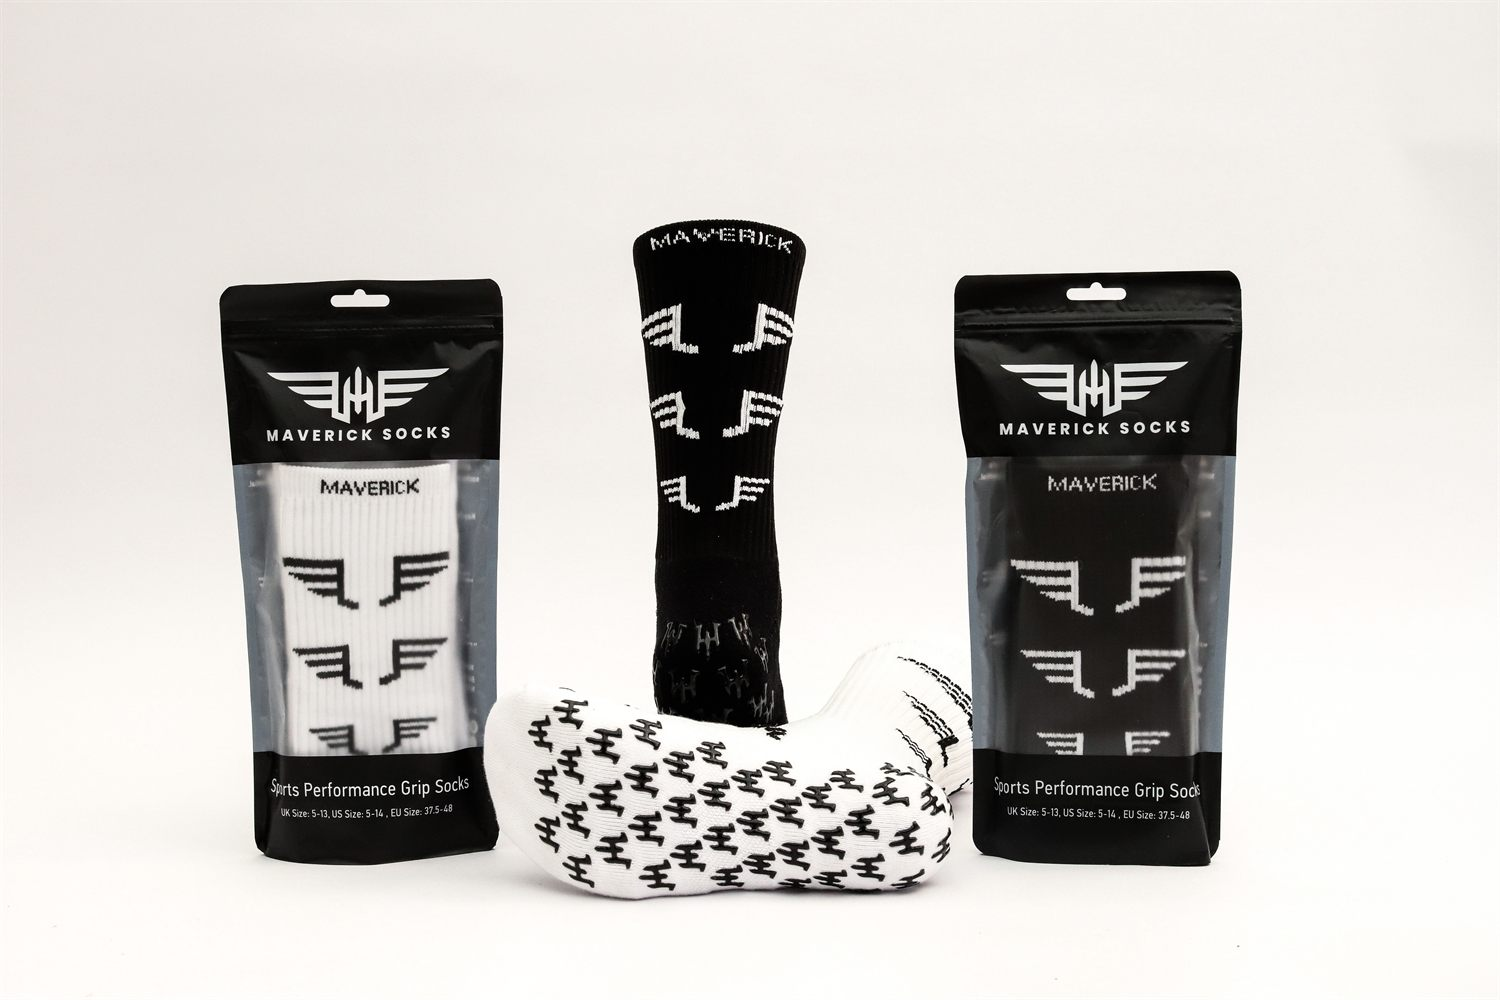
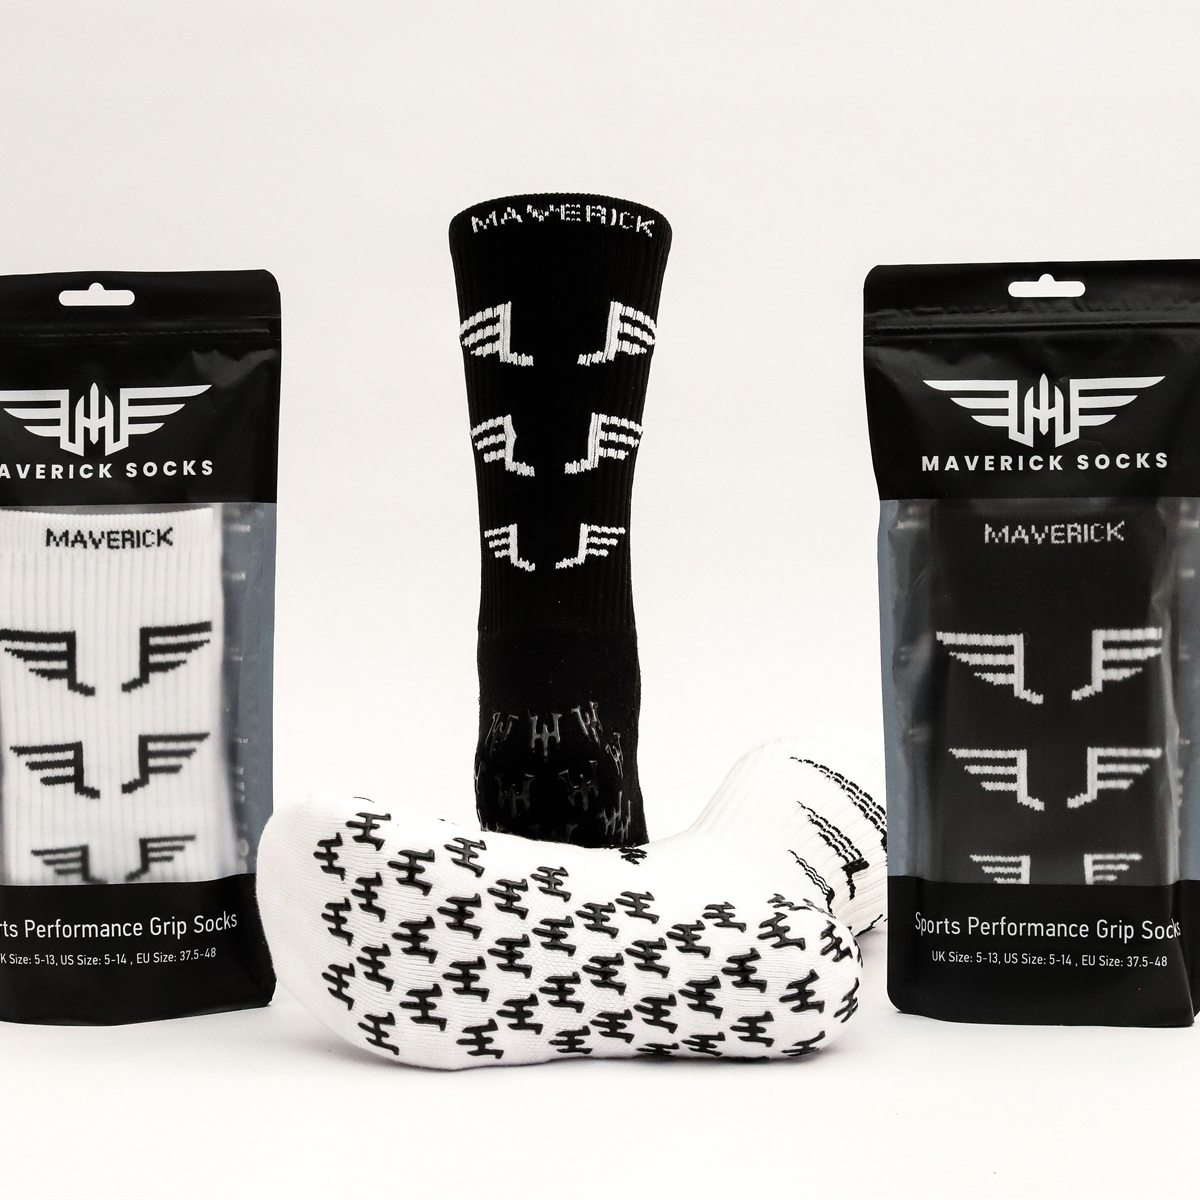
Catalogue: new product photos, square cards
- New white / black / 3-pack images (packaged sock + standing sock + grip
  sole), all cropped to 1200x1200 square so the three cards render at an
  identical size
- Card media aspect ratio 4:5 -> 1:1
- 3-pack copy: "Three pairs of your choosing so there's always a clean set
  in the kit bag. Save £3.98."

diff --git a/js/products.js b/js/products.js
@@ -8,7 +8,7 @@ window.MAVERICK_PRODUCTS = [
     name: "Maverick Grip Socks — White",
     price: 12.99,
     image: "assets/product-white.jpg",
-    alt: "White Maverick grip sock, side angle, showing the grip sole",
+    alt: "White Maverick grip socks with packaging and the grip sole",
     blurb: "The original. White with the black wing motif and a full-contact grip sole.",
     badge: "Bestseller"
   },
@@ -17,7 +17,7 @@ window.MAVERICK_PRODUCTS = [
     name: "Maverick Grip Socks — Black",
     price: 12.99,
     image: "assets/product-black.jpg",
-    alt: "Black Maverick grip sock, side angle, showing the grip sole",
+    alt: "Black Maverick grip socks with packaging and the grip sole",
     blurb: "Same grip, blacked out. Woven logo cuff and silicone grips inside and out.",
     badge: ""
   },
@@ -27,7 +27,7 @@ window.MAVERICK_PRODUCTS = [
     price: 34.99,
     image: "assets/product-3pack.jpg",
     alt: "Three pairs of Maverick grip socks with packaging",
-    blurb: "Three mixed pairs so there's always a clean set in the kit bag. Save £3.98.",
+    blurb: "Three pairs of your choosing so there's always a clean set in the kit bag. Save £3.98.",
     badge: "Best value"
   }
 ];
@@ -43,7 +43,7 @@ window.MAVERICK_PRODUCTS = [
     card.innerHTML =
       '<div class="product-media">' +
       (p.badge ? '<span class="product-badge">' + p.badge + "</span>" : "") +
-      '<img src="' + p.image + '" alt="' + p.alt + '" loading="lazy" width="600" height="750" />' +
+      '<img src="' + p.image + '" alt="' + p.alt + '" loading="lazy" width="600" height="600" />' +
       "</div>" +
       '<div class="product-body">' +
       "<h3>" + p.name + "</h3>" +

diff --git a/css/styles.css b/css/styles.css
@@ -160,7 +160,7 @@ body.nav-open .nav-toggle span:nth-child(3) { transform: translateY(-7px) rotate
 .carousel-bar span { position: absolute; left: 0; top: 0; height: 100%; width: 30%; background: var(--ink); transition: transform 0.15s linear, width 0.15s linear; }
 
 .product-card { scroll-snap-align: start; display: flex; flex-direction: column; }
-.product-media { position: relative; background: var(--panel); aspect-ratio: 4 / 5; overflow: hidden; border-radius: 10px; }
+.product-media { position: relative; background: var(--panel); aspect-ratio: 1 / 1; overflow: hidden; border-radius: 10px; }
 .product-media img { width: 100%; height: 100%; object-fit: cover; transition: transform 0.5s var(--ease); }
 .product-card:hover .product-media img { transform: scale(1.04); }
 .product-badge {

diff --git a/README.md b/README.md
@@ -59,7 +59,7 @@ same name (or update the path in `index.html` / `products.js`):
 | File | Where it shows |
 |---|---|
 | `hero-1.jpg` / `hero-2.jpg` | homepage hero slideshow (crossfades every ~5.5s) |
-| `product-white.jpg` / `product-black.jpg` / `product-3pack.jpg` | catalogue cards + feature band |
+| `product-white.jpg` / `product-black.jpg` / `product-3pack.jpg` | catalogue cards (square, 1200×1200) |
 | `story.jpg` | Our Story / Explore sections |
 | `logo-black.png` / `logo-white.png` | header / footer logo (black lockup live) |
 | `favicon.png` | browser tab icon |
